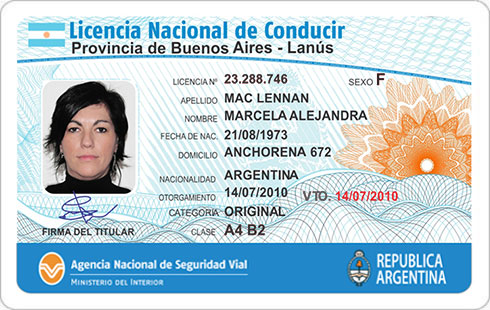
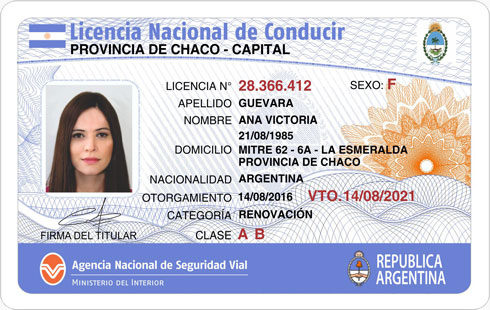
redmine #5532 cambio de maquetado por incorporación de un nuevo modelo de LNC se agrega modal

diff --git a/src/proyectos/argentina/estatico/licencia-conducir/index.html b/src/proyectos/argentina/estatico/licencia-conducir/index.html
@@ -30,11 +30,20 @@ layout: argentina
 
           <div class="form-group">
             <div class="row">
-              <div class="col-sm-8 col-sm-offset-2 col-md-6 col-md-offset-0">
-                <img src="img/licencia.jpg" class="img-responsive m-b-1" alt="Responsive image">
+              <div class="col-sm-8 col-sm-offset-2 col-md-4 col-md-offset-0">
+                <a href="#modeloLicencia" data-toggle="modal">
+                  <img src="img/licencia.jpg" class="img-responsive m-b-1" alt="Responsive image">
+                </a>
               </div>
-              <div class="col-sm-8 col-sm-offset-2 col-md-6 col-md-offset-0">
-                <img src="img/licencia-anterior.jpg" class="img-responsive m-b-1" alt="Responsive image">
+              <div class="col-sm-8 col-sm-offset-2 col-md-4 col-md-offset-0">
+                <a href="#modeloLicencia" data-toggle="modal">
+                  <img src="img/licencia-anterior.jpg" class="img-responsive m-b-1" alt="Responsive image">
+                </a>
+              </div>
+              <div class="col-sm-8 col-sm-offset-2 col-md-4 col-md-offset-0">
+                <a href="#modeloLicencia" data-toggle="modal">
+                  <img src="img/licencia-nueva.jpg" class="img-responsive m-b-1" alt="Responsive image">
+                </a>
               </div>
             </div>
           </div>
@@ -85,3 +94,29 @@ layout: argentina
 
 
 </div>
+
+<div id="modeloLicencia" class="modal fade" tabindex="-1" role="dialog"> 
+  <div class="modal-dialog"> 
+    <div class="modal-content"> 
+      <div class="modal-header"> 
+        <button type="button" class="close" data-dismiss="modal" aria-label="Close"> 
+          <span aria-hidden="true">×</span> 
+        </button> 
+      </div> 
+      <div class="modal-body p-x-2"> 
+        <div class="row numbers p-b-1 text-center"> 
+          <div class="col-md-12"> 
+            <img src="img/licencia.jpg" class="img-responsive m-b-1 center-block" alt="Responsive image">
+          </div> 
+        </div> 
+      </div> 
+    </div> 
+  </div> 
+</div>
+
+<script type="text/javascript">
+  $('[data-toggle="modal"]').click( function() {
+    var src = $(this).find("img").attr("src");
+    $(".modal").find("img").attr("src", src);
+  })
+</script>
